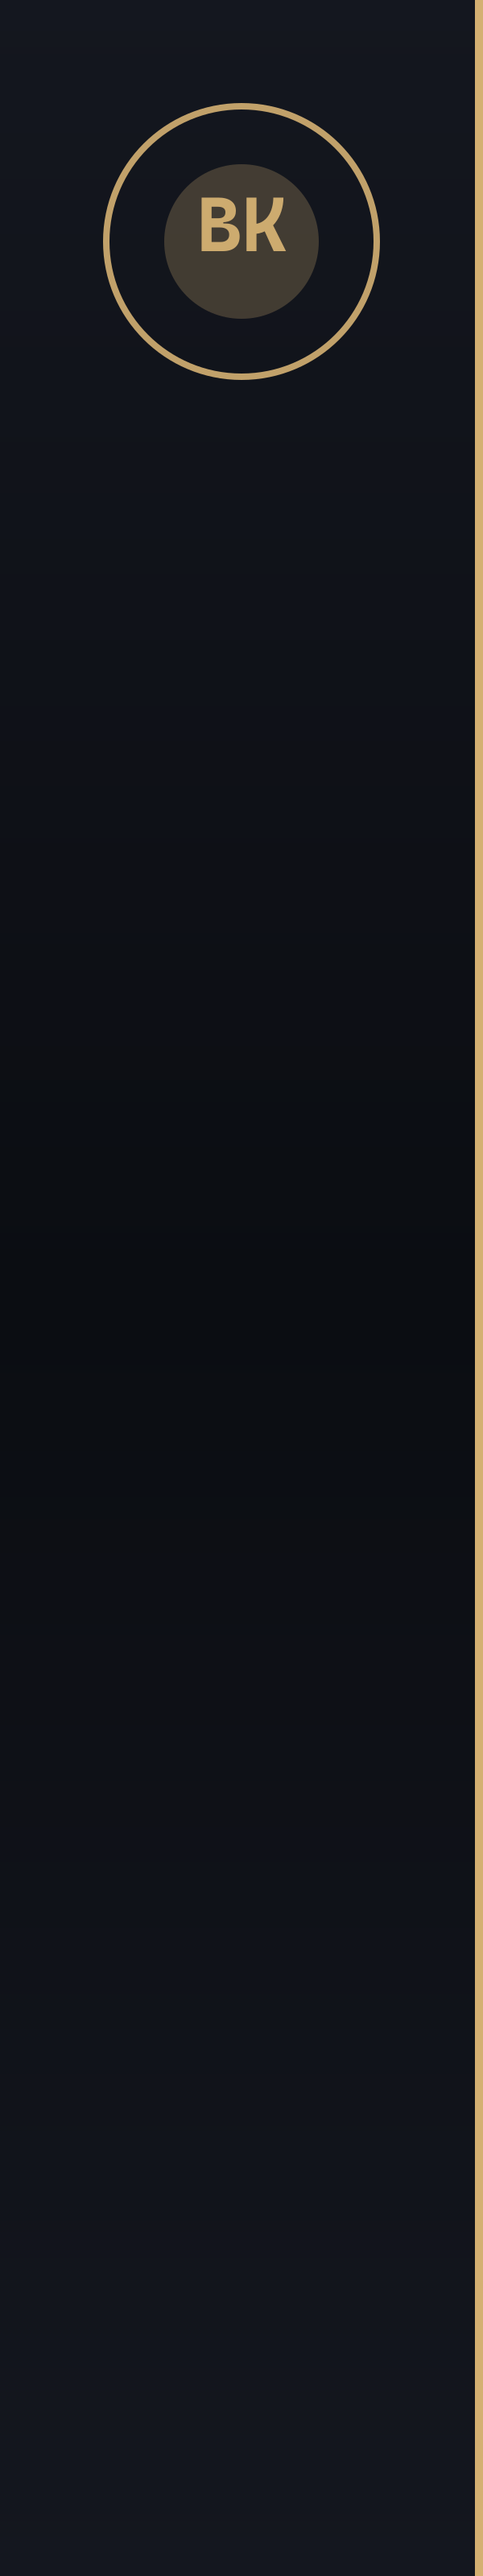
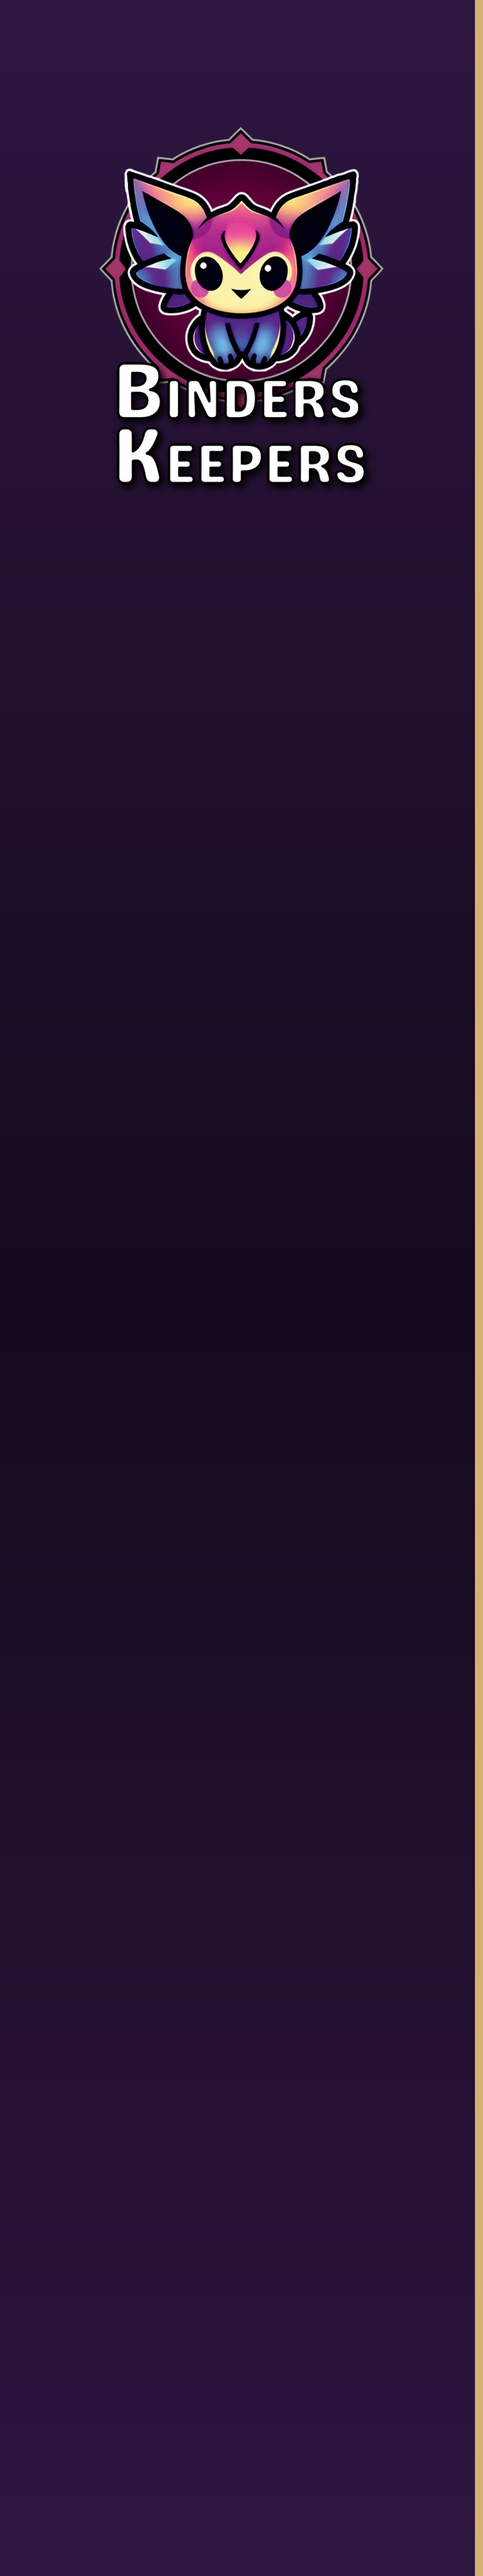
feat(listings): real store mark on the rails, dark plum ground, and a white mat around the card
Three changes to how a branded listing image looks.

The rails now composite logos/BK_Logo_alpha.png — the actual store mark with its
wordmark — instead of a generated "BK" disc. It has to keep its alpha channel or
it composites as a box, which is noted at the call site. One mark per rail at
opposite ends, left high and right low, so the pair frames the card diagonally
rather than stacking four marks down the same edge.

The ground is dark plum rather than near-black, sampled from the mark's own
backing disc so the rails and the logo read as one thing instead of a logo
dropped onto a neutral panel.

And the card gets a white mat: a new cardPaddingX (48 default, 24 for sealed)
between the card and each rail. A standard single is width-constrained by the
column, so without it the card edge sat hard against near-black chrome and read
as a printing error rather than a frame. The column is now
canvas − 2×railWidth − 2×cardPaddingX = 904px at the defaults, validateLayout
enforces that it closes, and it is whitelisted so it can be tuned from the lab
and saved through /api/settings.

One correctness note: card placement now centres on the CANVAS instead of being
measured off the rail edge. The old form happened to be equivalent while the mat
was zero, and would have shifted every card by cardPaddingX the moment it was
not.

The layout is hashed, so this re-composes everything — which is the intended
behaviour and costs nothing today, since the flag is still off and no branded
[…]

diff --git a/listing-image-lab.html b/listing-image-lab.html
@@ -198,7 +198,8 @@ const $ = (id) => document.getElementById(id);
 // is rejected by the same validator the compositor runs, so the sliders cannot produce a broken save.
 const SLIDERS = [
   { key: 'railWidth',    scope: 'layout', min: 0,   max: 500, step: 10,  label: 'rail width',    unit: 'px' },
-  { key: 'cardPaddingY', scope: 'layout', min: 0,   max: 320, step: 8,   label: 'card padding',  unit: 'px' },
+  { key: 'cardPaddingY', scope: 'layout', min: 0,   max: 320, step: 8,   label: 'card padding ↕', unit: 'px' },
+  { key: 'cardPaddingX', scope: 'layout', min: 0,   max: 200, step: 4,   label: 'card mat ↔',     unit: 'px' },
   { key: 'canvas',       scope: 'layout', min: 800, max: 3200, step: 200, label: 'canvas',       unit: 'px' },
   { key: 'quality',      scope: 'layout', min: 60,  max: 100, step: 1,   label: 'jpeg quality',  unit: '' },
   { key: 'trimThreshold',scope: 'layout', min: 0,   max: 80,  step: 1,   label: 'trim threshold',unit: '' },

diff --git a/AGENTS.md b/AGENTS.md
@@ -1055,8 +1055,8 @@ check) · `test/unit/runner-ndjson.test.mjs` (the page's real `consumeNdjson`, p
 
 eBay crops every gallery thumbnail to a **square**. A portrait card scan letterboxes inside it, so we
 hand eBay two columns of dead space and let eBay decide what fills them. `lib/listing-image.mjs`
-fills them ourselves: the card centred in a 1000px column with a fixed 300px branded rail either
-side, on a 1600×1600 canvas.
+fills them ourselves: the card centred on a 1600×1600 canvas with a fixed 300px branded rail either
+side and a 48px white mat between card and rail.
 
 ```
 composeListingImage(input, meta, options?)
@@ -1088,10 +1088,26 @@ config**. Absent always means *defer*, never *yes*.
 
 The rails are always exactly `railWidth`, so the art is pixel-exact and never stretches; the card is
 fitted into whatever is left (`fit: 'inside'`). Rails sized to the leftover space would rescale per
-photo and the store would stop looking like one set. A standard card lands at 1000×1397 in the
-1000×1408 box, so near-every single fills the column identically. `PROFILES` overrides the geometry
-per `productType` — `sealed` narrows the rails to 220 because a landscape ETB photo otherwise floats
-tiny in the middle of the canvas.
+photo and the store would stop looking like one set.
+
+The column is `canvas − 2×railWidth − 2×cardPaddingX` — **904px** at the defaults. `cardPaddingX`
+(48) is the white mat between card and rail: without it a standard single is width-constrained by
+the column and its edge sits hard against near-black chrome, which reads as a printing error rather
+than a frame. `validateLayout` enforces the whole thing closes, so a wide rail plus a wide mat fails
+loudly instead of emitting a squashed card. The card is centred on the **canvas**, never measured off
+the rail edge — derive it from the rail and it shifts by `cardPaddingX` the moment the mat is
+non-zero.
+
+`PROFILES` overrides the geometry per `productType` — `sealed` narrows the rails to 220 and the mat
+to 24, because a landscape ETB photo otherwise floats tiny in the middle of the canvas.
+
+### The rail art
+
+`scripts/build-placeholder-rails.mjs` composites **`logos/BK_Logo_alpha.png`** — the real store mark,
+which must keep its alpha channel or it composites as a box — onto a dark-plum gradient pulled from
+the mark's own backing disc, so rails and logo read as one thing. One mark per rail at opposite ends
+(left high, right low) frames the card diagonally instead of stacking four down the same edge. The
+inner edge carries a per-variant hairline: gold on `default`, magenta on `japanese`, blue on `sealed`.
 
 ### The three silent failures
 
